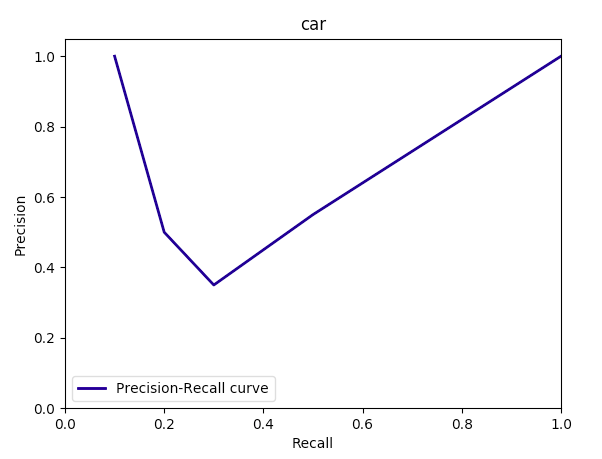
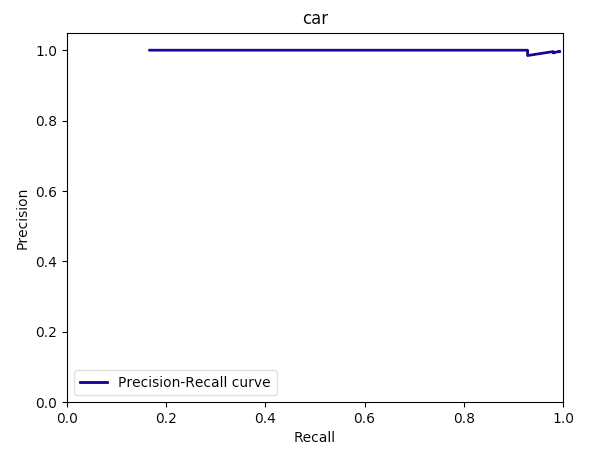
modified Intro, added metric example table and grraphs, updated the figures with latest MAE generated graphs

diff --git a/end_to_end_pipeline_vdnn_dev_ev_tr.tex b/end_to_end_pipeline_vdnn_dev_ev_tr.tex
@@ -421,16 +421,13 @@ g} \fi
 % As a general rule, do not put math, special symbols or citations
 % in the abstract
 \begin{abstract}
-Video annotation as a means to gather training data-set is proven to be beneficial in the progress of machine learning and deep learning techniques. Recently, front-ends to achieve easy and efficient (deep neural network) DNN prototyping has gained much attention in the deep learning domain. A system where one can load DNN models under development, study or evaluation and apply them directly on the video to learn model accuracy is not readily available. Such close integration of automatic annotation and evaluation is the best way to rapidly generate ground truth and evaluate models on a high level. With this paper, we discuss a system implementing the end-to-end pipeline which help achieve faster ground truth generation, evaluation, and research. The system inherently support Darknet with YOLO and tensorflow based object detection and classification models like Faster-RCNN (the system allows easy integration with other models). 
-The easy to use front-end provide the interface to load user supplied configuration and weights files along with triggers to run the model on videos or image-lists captured particularly to generate data-sets for further training, research or prototyping.
+Video annotation as a means to gather training data-set is proven to be beneficial in the progress of machine learning(ML) and deep learning(DL) techniques. The process of generating training data-set from video sequences, most of the time, requires large amount of manual effort. With this paper, we propose an user friendly front-end tool that supports semi-automated video annotation to generate training data-set with considerably less manual effort thereby reducing the time taken for DL model development. In addition to supporting semi-automated annotation, the tool provides interface for high level DL model evaluation and enables the developer to compare and analyze the performance of two or more models, thereby integrating the dataset generation, testing and evaluation of the models under one framework. With this proposal we also present various evaluation metrics used to asses the quality of annotation and hence the performance of the ML models.
 \end{abstract}
 
 % no keywords
 \begin{IEEEkeywords}
-Video annotation, pipelined-supervised learning, interactive annotation tool, ground truth generation.
+Semi-Automated Video annotation, model evaluation metrics, multi-model interactive auto-annotation tool, ground truth generation.
 \end{IEEEkeywords}
-
-
 
 % For peer review papers, you can put extra information on the cover
 % page as needed:
@@ -444,8 +441,9 @@ Video annotation, pipelined-supervised learning, interactive annotation tool, gr
 
 
 \section{Introduction}
-An interactive video annotation tool where one can easily annotate objects, visualize the evaluation metric and work on rapid prototyping is the holy grail of model evaluation, application development and research. This paper presents a system which enable such pipelined ground truth generation and evaluation of multiple models against the generated ground truth. The system keeps track of the evaluation metric in terms of object classification accuracy, bounding box precision and undetected objects that are manually added. This evaluation metric could even help the researcher to easily track weak spots and improve on the learning algorithm. The comprehensive evaluation module deals with automatic model evaluation with easy to understand representation of pitfalls, accuracy measures and errors on a per class, per frame, per video basis. \par
-The system discussed in this paper is developed as part of a research project aimed at creating an ecosystem that supports easy ground truth generation, model evaluation and application development. The tool helps developers to quickly generate ground truth for classes of interest, evaluate available DNN models for those classes and . \par
+Deep learning has gained its momentum in near past with the increase in the availability of training data-set. As generation of training data-set for developing models requires significant manual effort and in the view of the fact that the models are in turn developed to reduce human intervention in a specific task, the idea of using the pre-trained models to generate data-set promises to be an efficient methodology to ground truth generation. This paper intends to develop such an ecosystem with multiple pre-trained models and thus providing a framework for model development. In this paper, we propose an interactive multi-model video annotation tool where one can select model, auto-annotate objects, evaluate the results, visualize the performance metrics and work on rapid prototyping of the ML models is the holy grail of model based application development and research.\par
+The system keeps track of the evaluation metric in terms of object classification accuracy, bounding box precision and undetected objects that are manually added. This evaluation metric could even help the researcher to easily track weak spots and improve on the learning algorithm. The comprehensive evaluation module deals wi automatic model evaluation with easy to understand representation of pitfalls, accuracy measures and errors on a per class, per frame, per video basis. \par
+The system discussed in this paper is developed as part of a research project aimed at creating an ecosystem that supports easy ground truth generation, model evaluation and application development. The tool helps developers to quickly generate ground truth for classes of interest, evaluate available DNN models for those classes. \par
 Furthermore, the system discussed in this paper supports labelling and learning an infinite number of classes.  
 
 \section{System Overview}\label{sec.overview}
@@ -496,44 +494,60 @@ The user can then train the model again with the new data-set.
 The user can now re-iterate the process with another data-inference cycle, pre-processing data and triggering the data-set generation. MAE shall learn the changes with new data-set against the old, backup the accurate manually corrected data and provides the user with the improvement metric and areas at fault. MAE uses video overlays to depict the metric at a frame level over the source video data.
 
 \section{Progress Metric}
-The Progress Metric shall be a simple visualisation of inference accuracy as detected by MAE. The metric shall consider:
+The Progress Metric shall be a simple visualization of inference accuracy as detected by MAE. The metric shall consider:
 \begin{itemize}
 	\item Bounding box precision.
 	\item Object prediction accuracy (boolean; whether the object was classified correctly).
 	\item Object detection status (boolean; whether the object was detected by the model or was manually labelled after inference).
 	\item Object tracking accuracy (if applicable; boolean; whether the object was tracked between adjacent frames).
 \end{itemize}
+The above evaluated metrics are presented graphically in a table or graph format as shown below. 
+
+\begin{tabular}{| c | c | c | c | c | c | c | }
+\hline
+Model & Class (CAR)  & & & & Classes \\ 
+\hline 
+     & tp & tn & fp & fn & AP & mAP \\ 
+YOLO & 769 & 0 &  108 & 56 & 0.89 & 0.19  \\
+FRCNN & 723 & 0 & 3 & 5 & 0.99 & 0.974 \\
+\hline
+\end{tabular}
+
 
 \subsection{Bounding box precision}
 We use IoU (Intersection over Union) to measure the bounding box precision. The IoU value is in-turn used to map object bounding boxes between the ground truth and model prediction.
-\begin{figure}
-\centering
-\includegraphics[width=\figwidthb]{fig/iou_equation.png}
-\caption{IoU equation.} \label{fig.structure}
-\end{figure}
+\begin{align}
+{IoU}={Area of Overlap} / {Area of Union}
+\end{align}
+
+%\begin{figure}
+%\centering
+%\includegraphics[width=\figwidthb]{fig/iou_equation.png}
+%\caption{IoU equation.} \label{fig.structure}
+%\end{figure}
 
 \subsection{Accuracy counts}
 The accuracy counts calculated for each class/label for the comprehensive evaluation result are:
 \begin{itemize}
-	\item True Positives. 
-	\begin{displaymath}
-	\mathbf{t}_p
-	\end{displaymath}
+	\item True Positives (tp). 
+	%\begin{displaymath}
+	%\mathbf{t}_p
+	%\end{displaymath}
 	This is the number of bounding boxes classified correctly according to the labels used to train the model. Say, when an object, car is correctly classified as a car.
-	\item False Positives
-	\begin{displaymath}
-	\mathbf{f}_p
-	\end{displaymath}
+	\item False Positives (fp).
+	%\begin{displaymath}
+	%\mathbf{f}_p
+	%\end{displaymath}
 	This is the number of bounding boxes classified in-correctly according to the labels used to train the model. Say, when an object, car is incorrectly classified as a truck.
-	\item True Negatives
-	\begin{displaymath}
-	\mathbf{t}_n
-	\end{displaymath}
+	\item True Negatives (tn).
+	%\begin{displaymath}
+	%\mathbf{t}_n
+	%\end{displaymath}
 	This is the number of bounding boxes classified correctly as objects the model was not trained for. Say, when an object airplane whose classification is not desired is left unpredicted.
-	\item False Negatives
-	\begin{displaymath}
-	\mathbf{f}_n
-	\end{displaymath}
+	\item False Negatives (fn).
+	%\begin{displaymath}
+	%\mathbf{f}_n
+	%\end{displaymath}
 	This is the number of bounding boxes classified in-correctly as valid objects. Say, when an object airplane whose classification is not desired is classified as a car.
 \end{itemize}
 
@@ -553,7 +567,13 @@ The accuracy counts calculated for each class/label for the comprehensive evalua
 \begin{figure}
 \centering
 \includegraphics[width=\figwidthb]{fig/pr_rcnn.png}
-\caption{Prediction recall curve when we ran RCNN for a 2 second video.} \label{fig.structure}
+\caption{Prediction recall curve when we ran RCNN, class "Car" for a 2 second video.} \label{fig.structure}
+\end{figure}
+
+\begin{figure}
+\centering
+\includegraphics[width=\figwidthb]{fig/pr_yolo.png}
+\caption{Prediction recall curve when we ran YOLO, class "Car" for a 2 second video.} \label{fig.structure}
 \end{figure}
 
 \subsection{Average Precision for each class}
